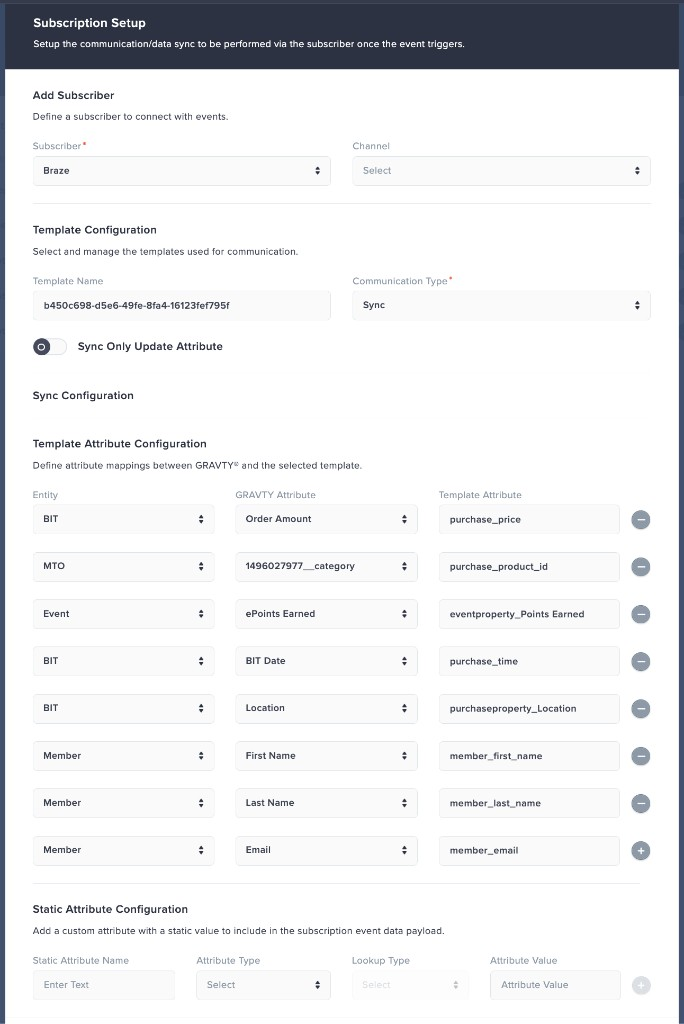
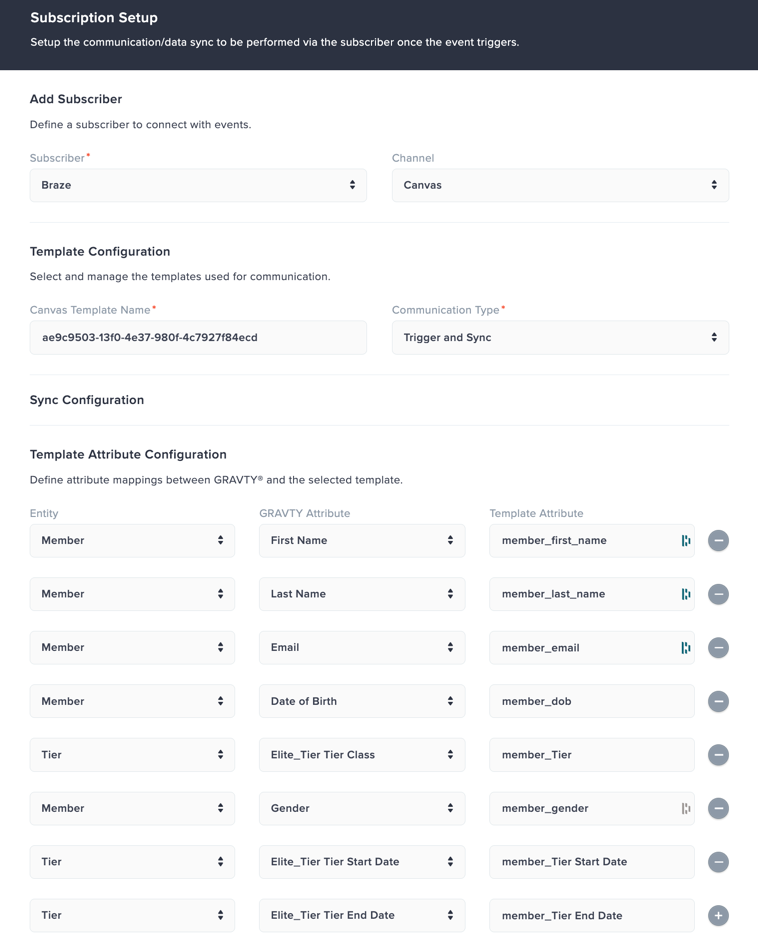
Revise GRAVTY® integration documentation based on feedback

diff --git a/_docs/_partners/data_and_analytics/loyalty/lji.md b/_docs/_partners/data_and_analytics/loyalty/lji.md
@@ -59,33 +59,60 @@ The GRAVTY® and Braze integration is API-based. It supports real-time data sync
 
 ![GRAVTY® Add Subscriber form with Braze selected, API URL and API key fields, and an active subscriber toggle.]({% image_buster /assets/img/lji/braze-subscriber-setup.png %}){: style="max-width:70%;"}
 
-### Step 2: Configure template attribute mapping
+### Step 2: Configure Event Trigger
 
-After you save the Braze subscriber, GRAVTY® opens the **Template Attribute Mapping** page. Use it to map fields to Braze.
+Create an event in GRAVTY® that will trigger when a transaction is created or updated for a member based on defined conditions.
 
-1. Select **Add New Field**.
-2. Select a **GRAVTY® attribute** from the list.
-3. Enter the **Braze attribute name** (custom attribute) where the value should appear in Braze.
+1. Navigate to the **Events** section in GRAVTY®.
+2. Click **Create Event**.
+3. Define the event conditions (for example, transaction created, points earned, or tier upgrade).
+4. Configure the rules that determine when the event should be triggered.
+5. Attach the Braze subscriber to the event to enable communication triggers.
+6. Save the event configuration.
+
+The following is an example of an event configured to trigger when a member is enrolled into the program:
+
+![Connecting Braze as a subscriber in GRAVTY®.]({% image_buster /assets/img/lji/event_configuration.png %})
+
+### Step 3: Configure Template Attribute Mapping
+
+After configuring the event, complete the subscriber configuration to enable data sync and communication triggers:
+
+1. Select the **Braze subscriber** created in Step 1 from the subscriber dropdown.
+2. Choose the appropriate **channel** (**Campaign** or **Canvas**) based on your use case. For data sync–only scenarios, the channel can be left unselected.
+3. Enter the corresponding **Campaign ID** or **Canvas ID** in the **Template Name** field, as applicable.
+4. Configure the communication type to support sync and/or trigger-based messaging.
+
+To configure field mapping in GRAVTY®:
+
+1. Click **Add New Field**.
+2. Select the **GRAVTY® attribute** from the dropdown.
+3. Enter the corresponding **Braze attribute name** where the data should be mapped.
 
 {% alert important %}
-You don't need to map `external_id`. GRAVTY® generates it internally by hashing the member ID, and Braze receives that hashed value as `external_id` on the user profile.<br><br> Before you enable the integration, confirm this matches how you set `external_id` in Braze today. If Braze already uses a different `external_id` for the same people, work with LJI to align identifiers before you sync data.
+There is no need to map `external_id`. GRAVTY® automatically generates and maps it internally by hashing the member ID, which serves as the unique identifier for members within GRAVTY®.
 {% endalert %}
 
-{: start="4"}
-4. Repeat steps 1–3 to add more mappings.
-5. Select **Save**.
+4. Repeat steps **1–3** to add additional mappings as needed.
+5. Click **Save** to apply the configuration.
 
-![GRAVTY® Subscription Setup page with template configuration, sync configuration, and a table mapping entity, GRAVTY® attribute, and template attribute fields for Braze.]({% image_buster /assets/img/lji/gravty-attribute-mapping.png %})
+![Attribute mapping configuration for Braze member sync.]({% image_buster /assets/img/lji/gravty-attribute-mapping.png %})
 
 {% alert note %}
-The integration supports Braze custom attribute data types, including numbers (integer, float), strings, arrays, booleans, objects, arrays of objects, and dates.
+The integration supports all Braze custom attribute data types, including numbers (integer, float), strings, arrays, booleans, objects, arrays of objects, and dates.
 {% endalert %}
 
-### Step 3: Test the integration
+### Step 4: Test the Integration
 
-Trigger a sample event in GRAVTY® to confirm sync, communication triggers, and the end-to-end flow.
+Trigger a sample event in GRAVTY® to verify that sync, communication triggers, and overall integration are working as expected.
 
-![Braze user profile overview showing Profile, Custom Attributes (tier, dates, country, city), and Custom Events populated from GRAVTY® mapping.]({% image_buster /assets/img/lji/braze-member-profile.png %})
+* Member data is synced to Braze and reflected in the member profile.
+
+![The data fields are populated based on the configured field mapping.]({% image_buster /assets/img/lji/braze-member-profile.png %})
+
+* Communication is triggered based on the configured Campaign or Canvas.
+
+![Example of an email triggered from Braze.]({% image_buster /assets/img/lji/braze-email-example.png %})
 
 ## Support
 
